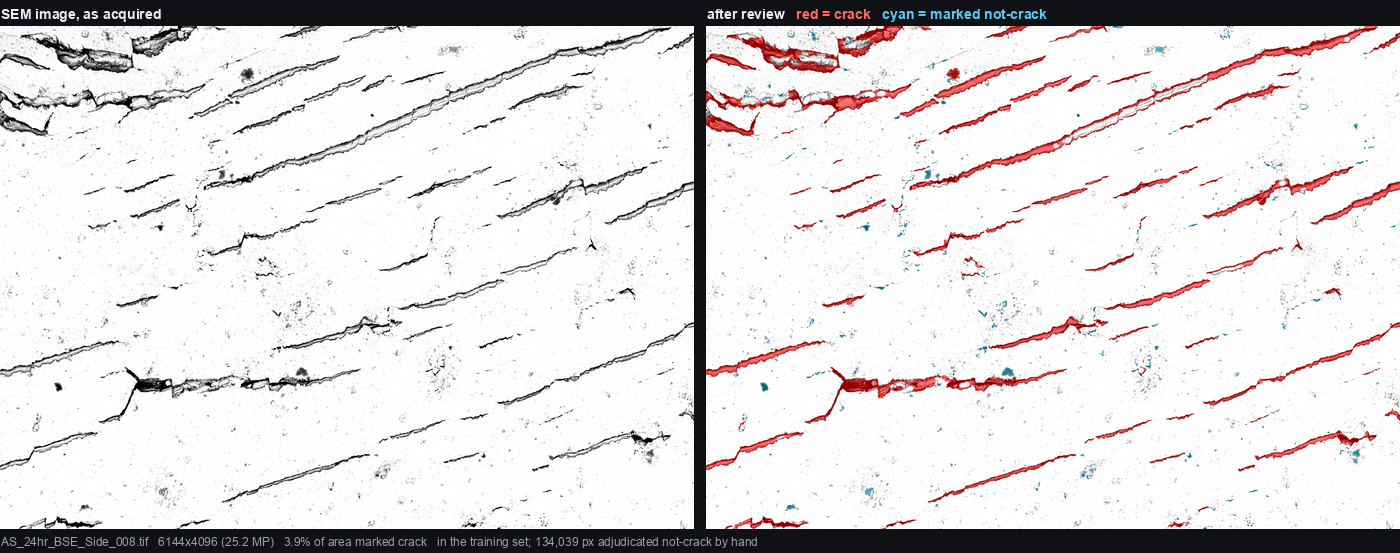
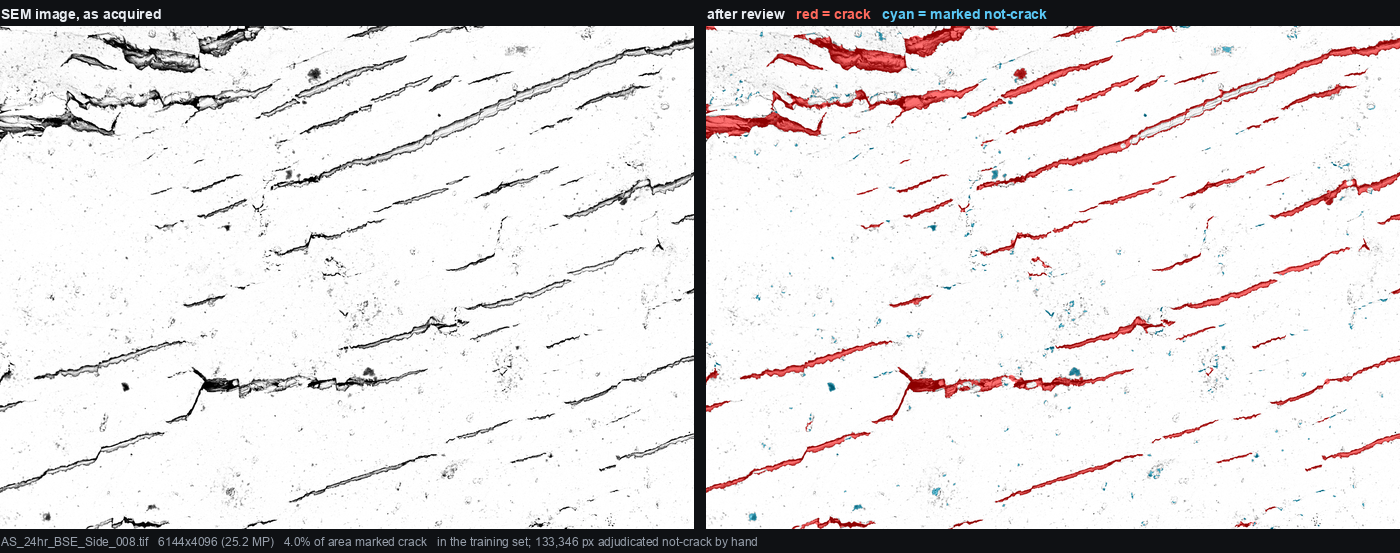
Both headline figures showed a detector nobody runs, for four weeks
docs/img/README.md carries a section titled "Both figures were rebuilt on 2026-08-23, and
why", whose argument is that "any figure that predates a detection change is evidence for
a detector nobody runs". Two days later commit 8679146 landed a relabelling pass -- 26.1 M
marked pixels across 31 masks, 7 newly labelled images -- and the model was retrained on
it. Neither figure was rebuilt. The rule was written down and then not enforced, in the
same file that states it.

Both rebuilt against the deployed model.

review.png also baked two stale counts into its footer bar, so the wrong numbers shipped
inside the image as well as in the README prose beside it:

  training rows from AS_24hr_BSE_Side_008   1,285 -> 1,295
  pixels adjudicated not-crack by hand    134,039 -> 133,346   (916,151 marked crack)

Both recomputed here from training_data/labeled_regions.csv and the committed correction
mask rather than taken from the auditor's report.

detection.png's stated precondition was rechecked before rebuilding and still holds:
260622_316_H_b2_front_CBS_02 has no correction mask and contributes 0 training rows, so
its right panel is still unaided output on an image the classifier never saw.

382 passed, 0 failed.

diff --git a/docs/img/README.md b/docs/img/README.md
@@ -41,7 +41,7 @@ present corrected pixels as unaided accuracy.
 
     ./.venv/bin/python3 code/build_figures.py AS_24hr_BSE_Side_008 \
         --out docs/img/review.png --frac 0.55 --reviewed \
-        --note "in the training set; 134,039 px adjudicated not-crack by hand"
+        --note "in the training set; 133,346 px adjudicated not-crack by hand"
 
 ## app.png
 
@@ -125,3 +125,17 @@ screenshot is scriptable:
 That fragment exists because of what happened to `app.png`: its doc said "not scripted" and it
 sat six days stale, showing a threshold and a sidebar panel that no longer existed. A panel
 that can only be photographed by hand is one whose screenshot will rot the same way.
+
+## And rebuilt again on 2026-09-21, for the same reason
+
+The section above is dated 2026-08-23. Commit `8679146` landed on 2026-08-25 — a
+relabelling pass adding 26.1 M marked pixels across 31 masks and 7 newly labelled
+images — and the model was retrained on it. Neither figure was rebuilt, so for four
+weeks both showed a detector nobody runs, which is precisely the failure this file had
+just finished documenting. A rule written down is not a rule enforced.
+
+`review.png` also carried two counts from before that pass: 1,285 training rows from
+`AS_24hr_BSE_Side_008` and 134,039 not-crack pixels. Recomputed from
+`training_data/labeled_regions.csv` and the committed correction mask, they are **1,295**
+and **133,346** (916,151 marked crack). The figure bakes that number into its footer, so
+the wrong value shipped in the image as well as in the README prose.

diff --git a/README.md b/README.md
@@ -164,9 +164,11 @@ can see what is worth opening before anything is rendered.
 ![The same frame before and after human review, cracks in red and hand-marked not-crack regions in cyan](docs/img/review.png)
 
    Left, the micrograph; right, the result after review. This is
-   `AS_24hr_BSE_Side_008`, the most heavily adjudicated image in the set — 1,285 of
-   the 7,505 training rows come from it, and 134,039 pixels in it were marked
-   not-crack by hand. Red tracks the cracks closely here precisely *because* it was
+   `AS_24hr_BSE_Side_008`, the most heavily adjudicated image in the set — 1,295 of
+   the 7,505 training rows come from it, and 133,346 pixels in it were marked
+   not-crack by hand (916,151 marked crack). Both counts recomputed from
+   `training_data/labeled_regions.csv` and the committed correction mask; they read
+   1,285 and 134,039 until 2026-09-21, from before the relabelling pass. Red tracks the cracks closely here precisely *because* it was
    reviewed, which is why this figure is labelled "after review" and the one above
    is not: read this one as what a finished image looks like, not as unaided
    accuracy.
